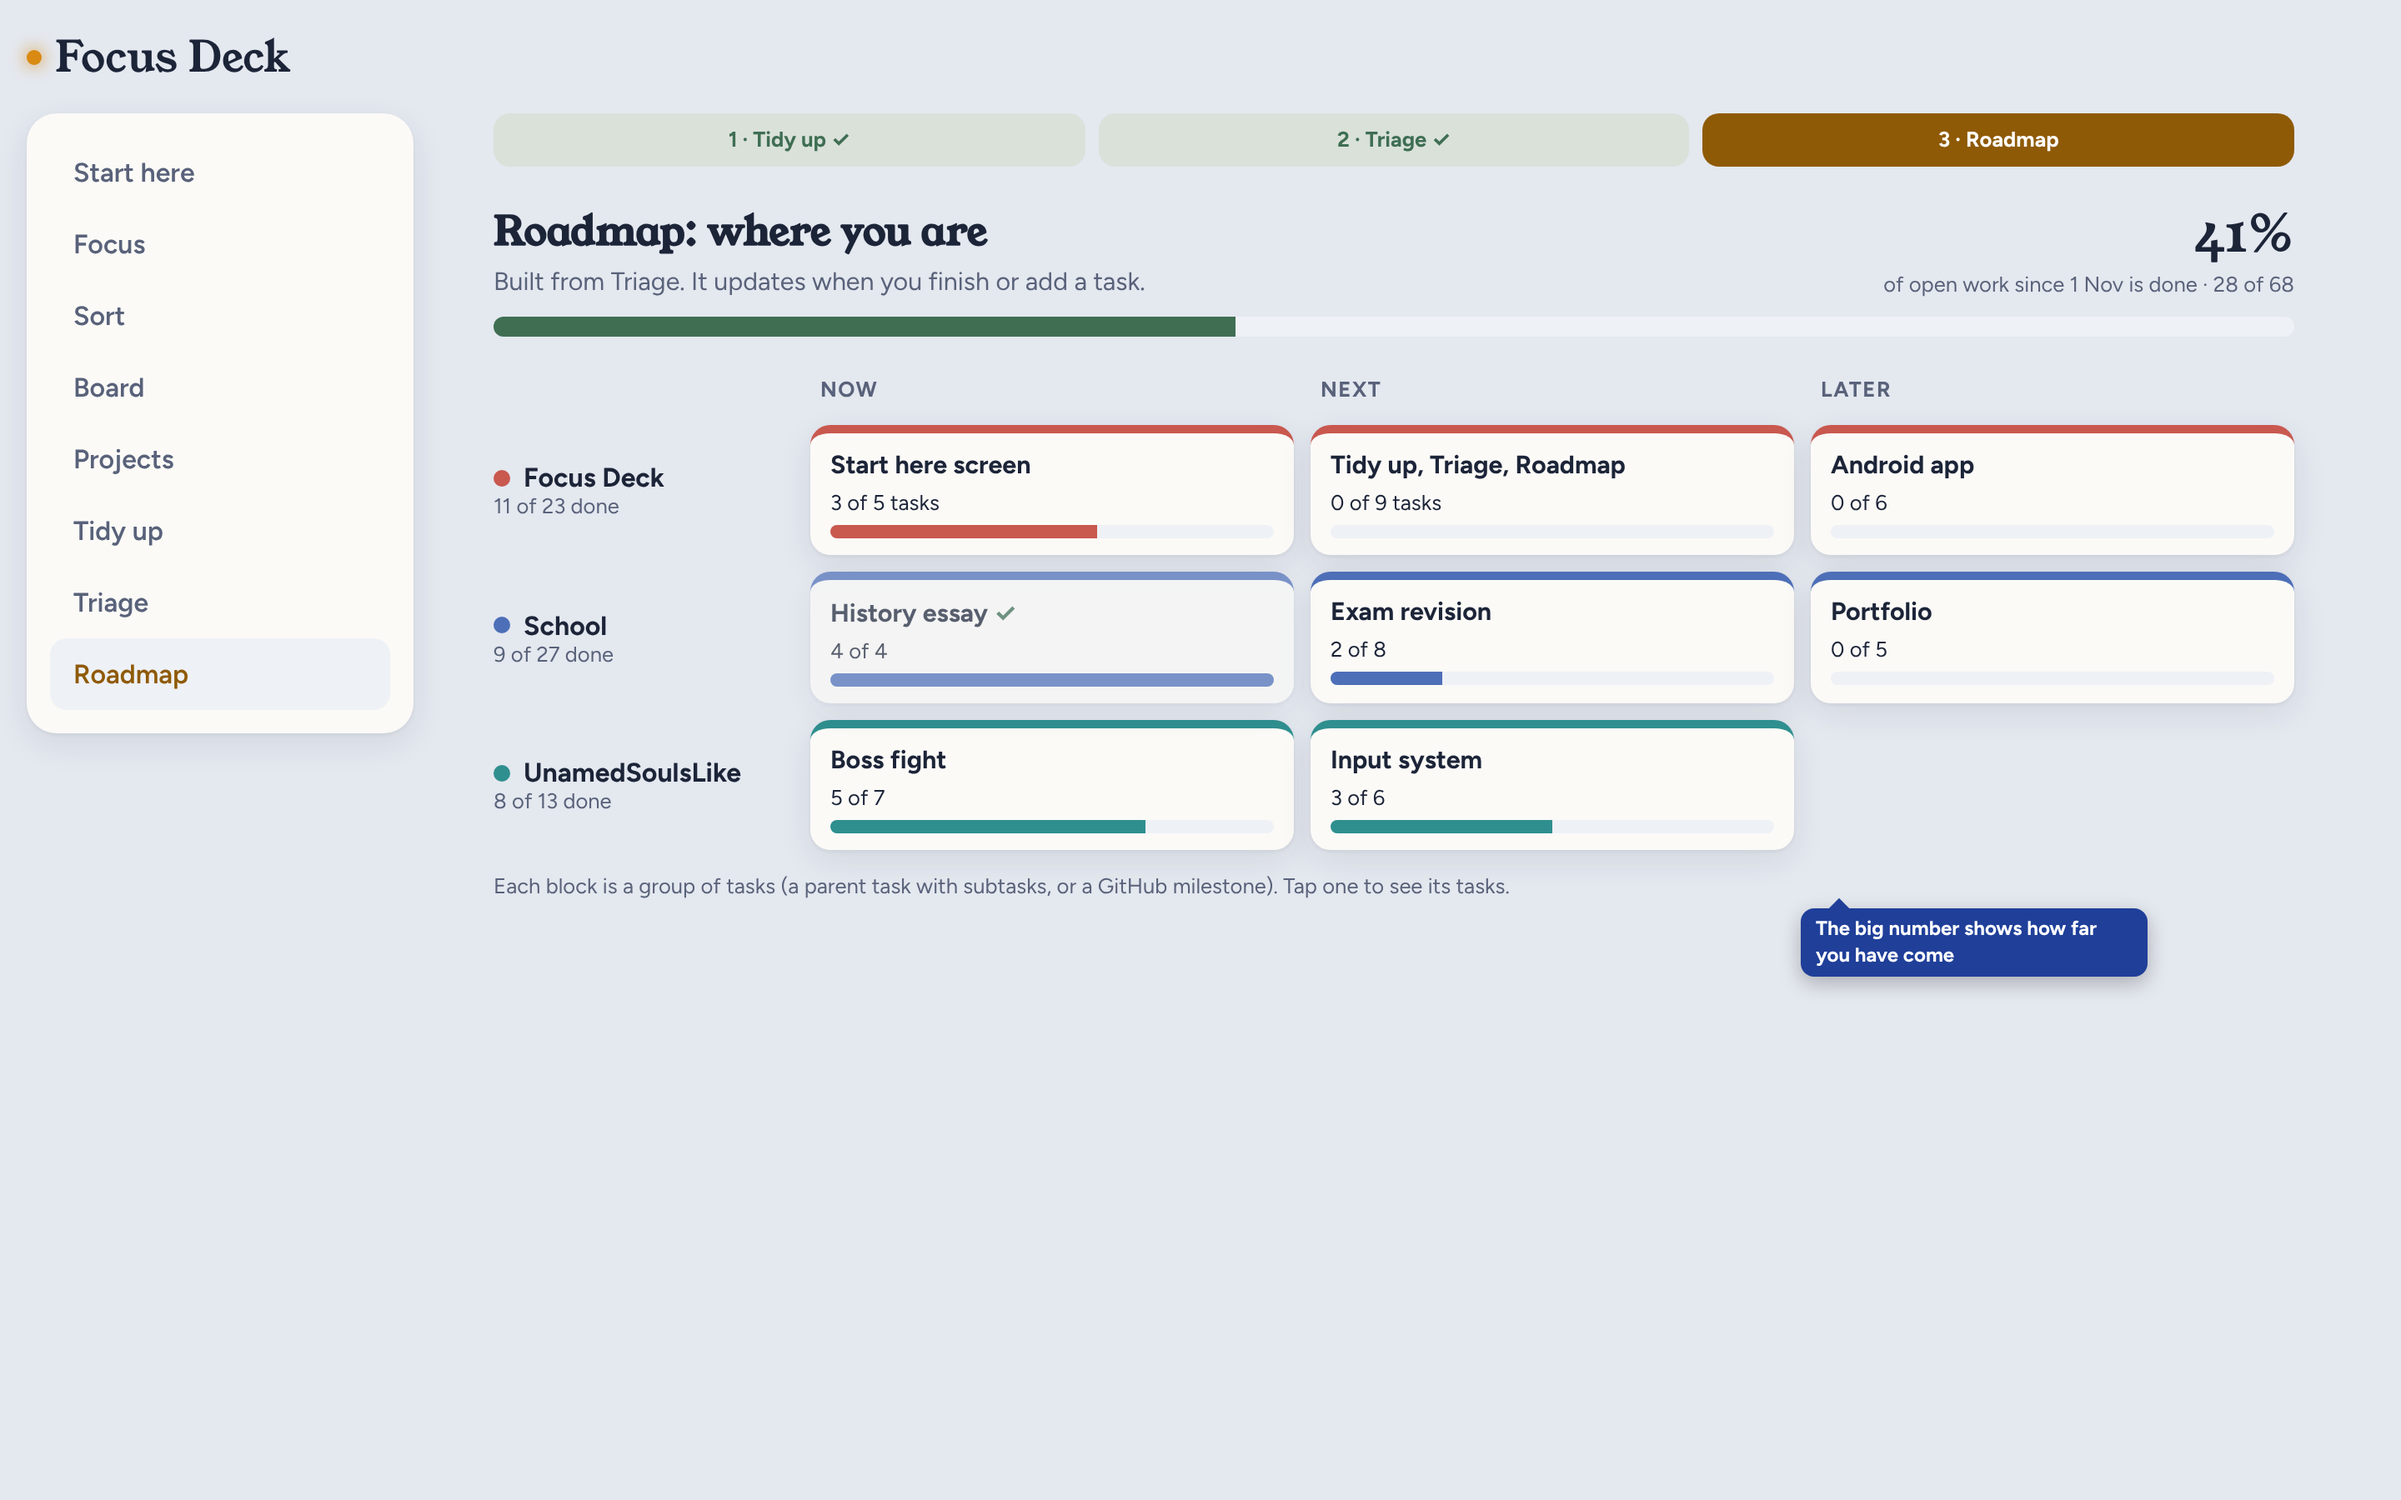
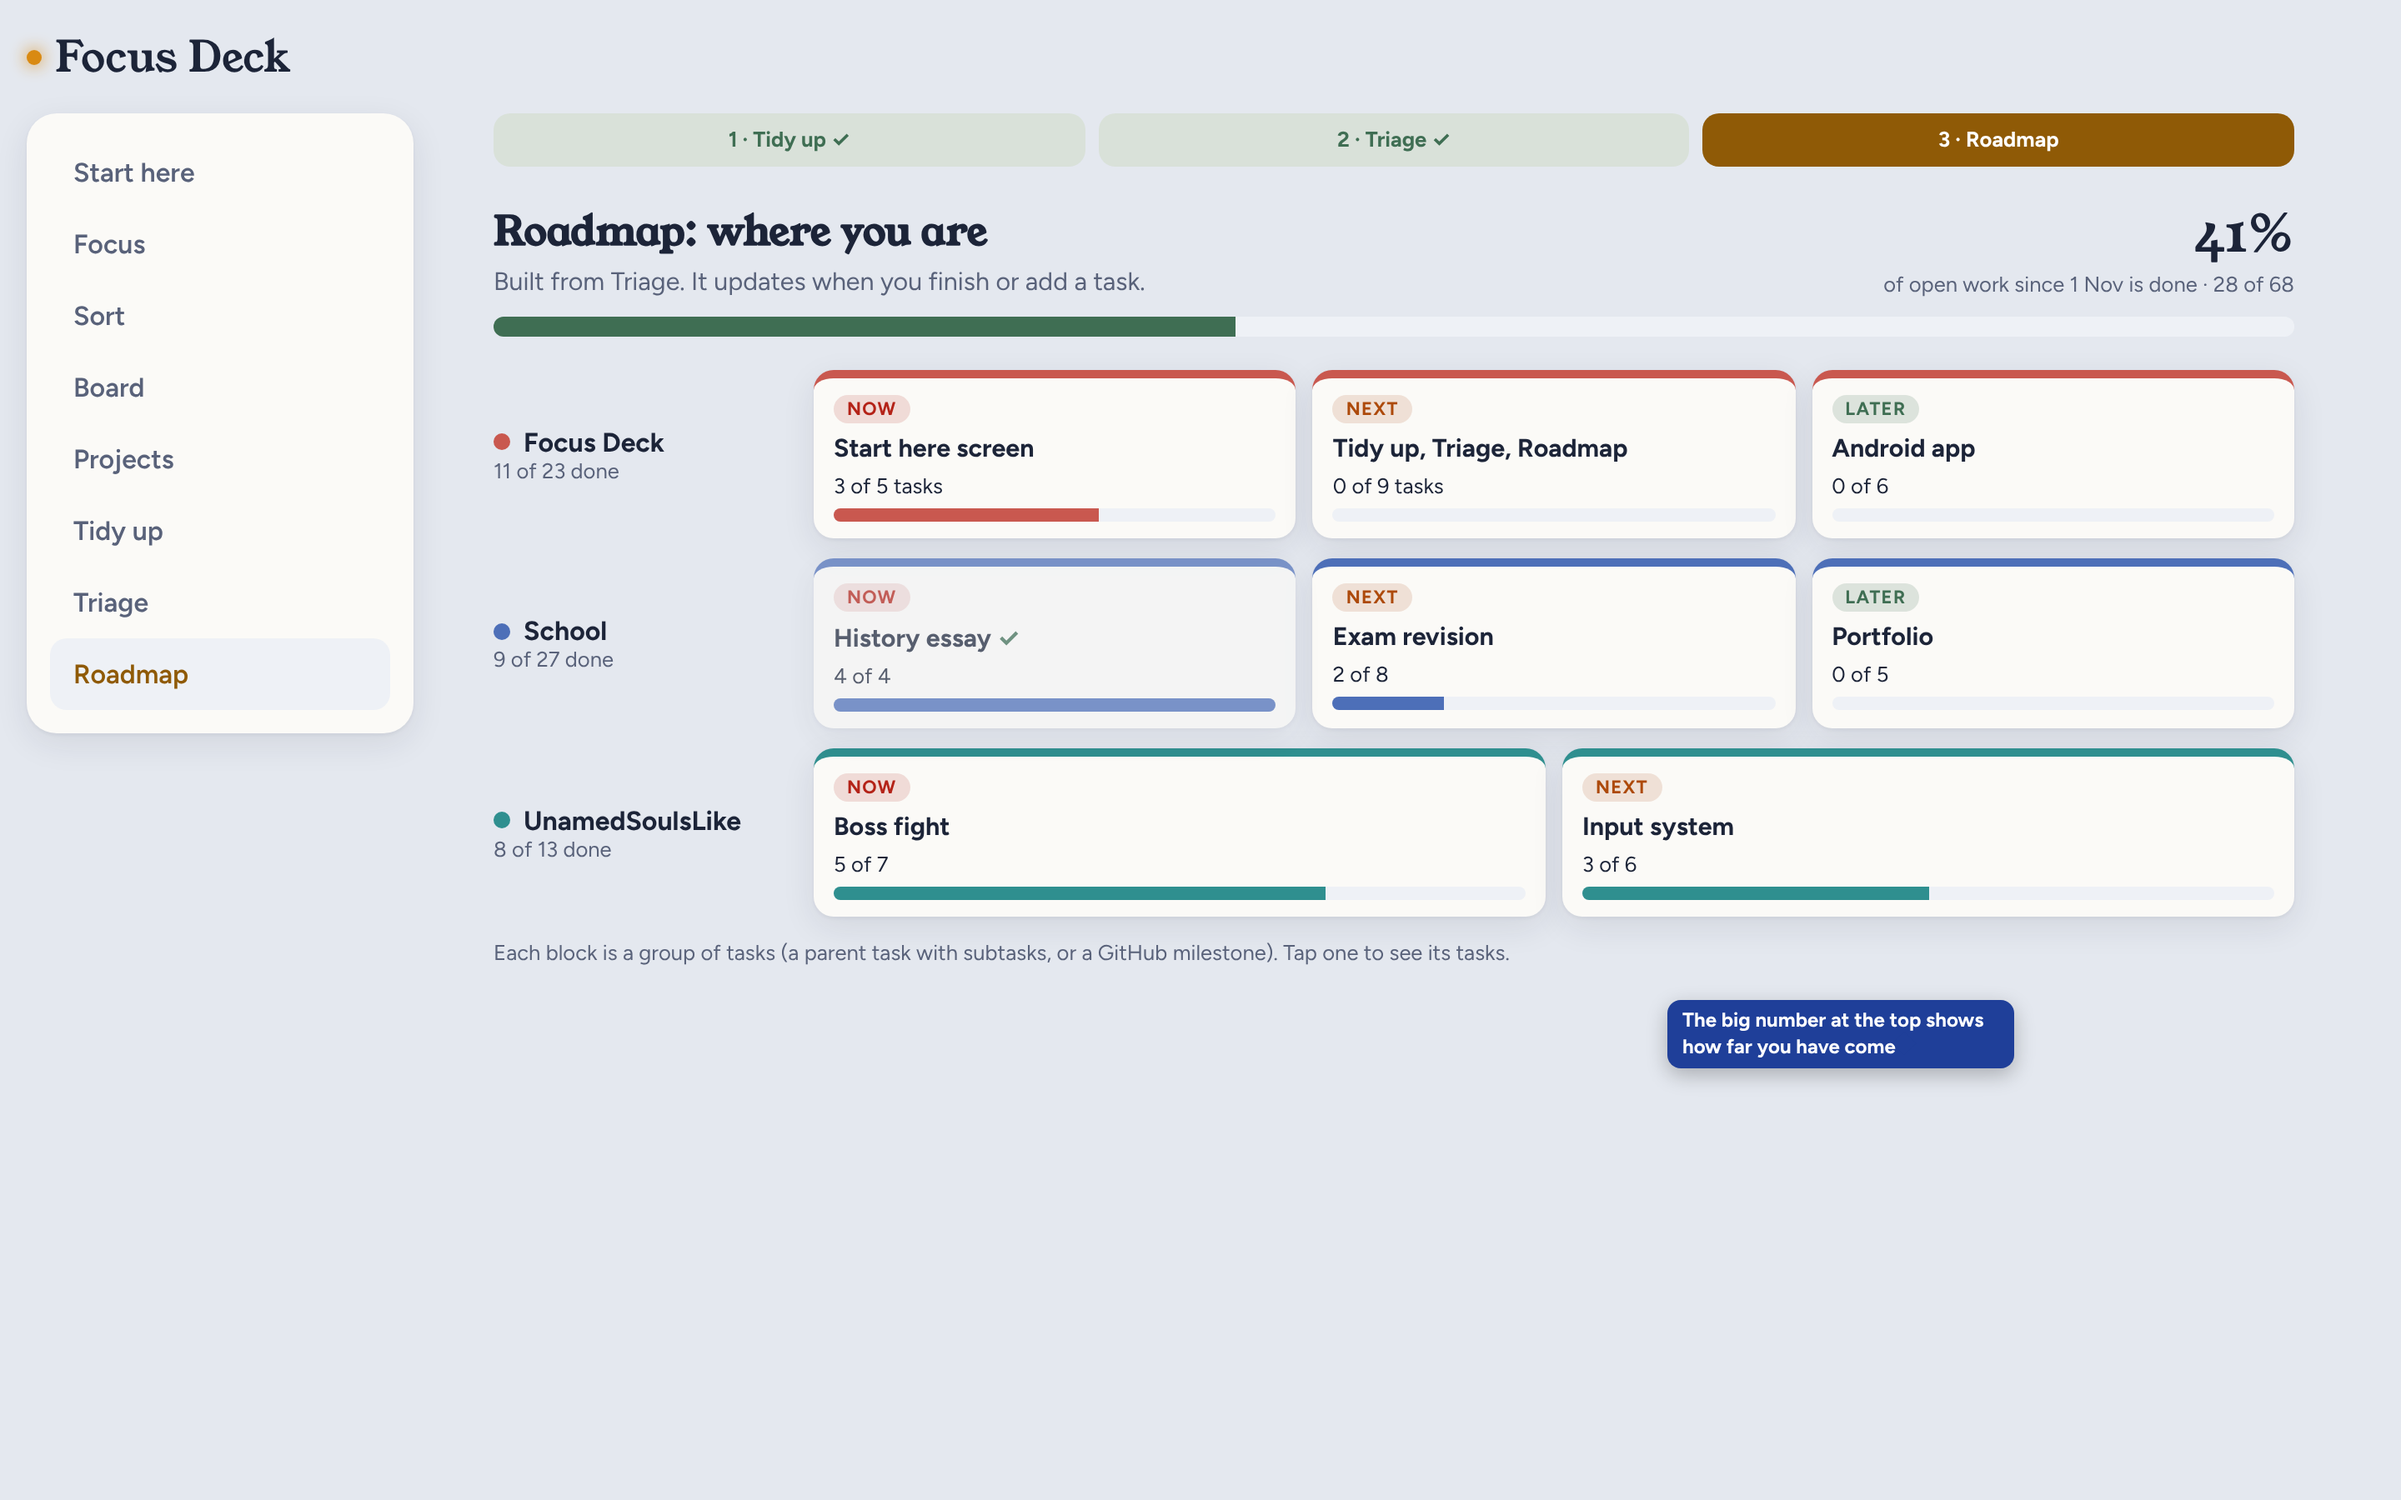
docs: part 2 page, gap-free roadmap rows and the view switch
Committed by Edens Agent

diff --git a/docs/plans/friction-part2.html b/docs/plans/friction-part2.html
@@ -273,7 +273,7 @@ const PAGE = {
   "eyebrow": "Proposal · adds to the combined plan · nothing built yet",
   "approval": "Design approved: friction plan part 2",
   "short": {
-    "lead": "You asked for five more things on top of the combined plan, which stays as the base. First, picking a priority is needed to add any task, and setting a due date takes one tap. Second, 'Needs review' ranks above 'In progress'. Third, phone and desktop share one carousel (a row of cards you slide sideways). Desktop shows five cards at once, and you can move along it with the arrow keys or a mouse. Fourth, a Tidy up step closes what no longer needs to exist, and a Triage step then ranks what is left. Fifth, a Roadmap shows where you are and how far you have come, and it updates as you finish or add tasks. After seeing it, you asked for one more thing: with 26 projects, Roadmap, Tidy up and Triage are too crowded to read. So each project now belongs to an area (a named group of projects, such as Home or Games), and picking an area hides the projects outside it. The pictures below are drawings, not the built app. Numbers marked 'example' are made up to fill the drawing.",
+    "lead": "You asked for five more things on top of the combined plan, which stays as the base. First, picking a priority is needed to add any task, and setting a due date takes one tap. Second, 'Needs review' ranks above 'In progress'. Third, phone and desktop share one carousel (a row of cards you slide sideways). Desktop shows five cards at once, and you can move along it with the arrow keys or a mouse. Fourth, a Tidy up step closes what no longer needs to exist, and a Triage step then ranks what is left. Fifth, a Roadmap shows where you are and how far you have come, and it updates as you finish or add tasks. After seeing it, you asked for one more thing: with 26 projects, Roadmap, Tidy up and Triage are too crowded to read. So each project now belongs to an area (a named group of projects, such as Home or Games), and picking an area hides the projects outside it. A switch at the top of every screen then picks all your work, one area, or one project. The pictures below are drawings, not the built app. Numbers marked 'example' are made up to fill the drawing.",
     "hint": "Tap each row to see its picture. Start with 'The two loops', which shows how the new screens connect to the ones from the combined plan.",
     "key": [
       [
@@ -431,27 +431,53 @@ const PAGE = {
       ],
       [
         "list",
+        "One switch on every screen",
+        "All, Area or Project, everywhere",
+        "you",
+        "You asked for every screen to show everything, one area, or one project. So the same switch sits at the top of Start here, Focus, Sort, Board, Projects, Tidy up, Triage and Roadmap. All shows everything, including Unsorted. Area shows one area. Project shows one project. Your pick stays as you move between screens, until you change it. With Home picked, Focus shows 4 folders instead of 26.",
+        "Check that keeping your pick across screens is what you want.",
+        {
+          "src": "friction-part2-pics/p2-view-every.png",
+          "alt": "Desktop drawing: four screens, Start here, Focus, Board and Sort, each with the All, Area, Project switch at the top; Start here and Focus on Home, Board on the Chores project, Sort on All",
+          "caption": "The same switch on four screens, with example tasks. A drawing, not built."
+        }
+      ],
+      [
+        "list",
+        "Picking an area on a phone",
+        "The list opens from the bottom",
+        "you",
+        "On a phone, tapping Home ▾ opens the list of areas from the bottom of the screen, so every area fits and none is cut off. Tapping one picks it for every screen.",
+        "No decision needed here.",
+        {
+          "src": "friction-part2-pics/p2-view-sheet.png",
+          "alt": "Phone drawing: the switch on Area, and a panel from the bottom titled Show one area listing the eight areas with Home ticked",
+          "caption": "Picking an area on a phone. A drawing, not built."
+        }
+      ],
+      [
+        "list",
         "Roadmap by area",
         "Pick Home and only Home shows",
         "you",
-        "A row of area chips sits at the top. With Home picked, the Roadmap shows only Home projects, and the big number counts only Home work. It shows at most five project rows at once, putting the ones with work in Now first, with a 'Show all' link under them. 'All' brings back the overall view.",
+        "With Area picked in the switch and Home chosen, the Roadmap shows only Home projects, and the big number counts only Home work. Each block carries a Now, Next or Later tag, and the blocks share each row's width, so there are no empty gaps. It shows at most five project rows, starting with the projects that have tasks in Now. A 'Show all' link under them shows the rest.",
         "Check that five rows is a comfortable number.",
         {
           "src": "friction-part2-pics/p2-roadmap-area.png",
-          "alt": "Desktop drawing: area chips with Home picked, Whole area selected, Roadmap Home at 55 percent, three Home projects in Now, Next and Later columns, and Showing 3 of 4",
+          "alt": "Desktop drawing: All, Area, Project switch with Area picked, area chips with Home picked, Roadmap Home at 55 percent, and three Home projects whose tagged blocks fill each row",
           "caption": "Roadmap with the Home area picked, with example numbers. A drawing, not built."
         }
       ],
       [
         "list",
         "Roadmap for one project",
-        "Switch from the area to one project",
+        "One project at a time",
         "you",
-        "The switch at the top right has two settings, 'Whole area' and 'One project'. 'One project' shows that project's blocks, with their tasks listed inside each block. The left and right arrow keys step to the next project in the same area. On a phone, a swipe does the same.",
+        "Picking Project in the switch shows one project's blocks, with their tasks listed inside each block. The left and right arrow keys step to the next project in the same area. On a phone, swiping sideways does the same.",
         "Check that the task lists inside each block are enough detail.",
         {
           "src": "friction-part2-pics/p2-roadmap-one.png",
-          "alt": "Desktop drawing: Apps area picked, One project selected, Roadmap Focus Deck at 48 percent, with Now, Next and Later blocks listing their tasks",
+          "alt": "Desktop drawing: switch on Project with Apps and Focus Deck picked, Roadmap Focus Deck at 48 percent, with Now, Next and Later blocks listing their tasks",
           "caption": "Roadmap for one project, with example numbers. A drawing, not built."
         }
       ],
@@ -471,13 +497,13 @@ const PAGE = {
       [
         "list",
         "Triage by area, phone",
-        "Area chips above the steps",
+        "The switch fits on one line",
         "you",
-        "On a phone the area chips scroll sideways above the three steps. Triage ranks only Home tasks, with the same seven rules.",
-        "Nothing extra from you.",
+        "On a phone, the switch and a Home ▾ button sit above the three steps, and nothing is cut off. Triage ranks only Home tasks, with the same seven rules.",
+        "No decision needed here.",
         {
           "src": "friction-part2-pics/p2-triage-area-phone.png",
-          "alt": "Phone drawing: area chips with Home picked, Triage step, Now, Next and Later for Home tasks, and the Plan tab",
+          "alt": "Phone drawing: All, Area, Project switch and a Home button on one line, Triage step, Now, Next and Later for Home tasks, and the Plan tab",
           "caption": "Triage on a phone with the Home area picked. A drawing, not built."
         }
       ]
@@ -525,6 +551,13 @@ const PAGE = {
       "Eight areas to start, which you can rename, recolour or add to; at least Roadmap, Tidy up and Triage filter by area.",
       null,
       "Each project's current category carries over; Learning becomes School."
+    ],
+    [
+      "new",
+      "View switch",
+      "All, Area or Project at the top of every screen.",
+      null,
+      "Replaces the Projects screen's category filter and the Board's project-group filter with one switch."
     ],
     [
       "keep",
@@ -581,25 +614,6 @@ const PAGE = {
       "I suggest 1 because the weekly loop is a habit, and a habit is easier with its own tab."
     ],
     [
-      "areawide",
-      "Where should the area you pick apply?",
-      [
-        [
-          "1",
-          "Everywhere",
-          1,
-          "Start here, Focus and the Board also show only that area until you pick All."
-        ],
-        [
-          "2",
-          "Only Tidy up, Triage and Roadmap",
-          0,
-          "The daily screens show everything, as they do now."
-        ]
-      ],
-      "I suggest Everywhere, because you said you want to work on Home without seeing app or game work."
-    ],
-    [
       "multi",
       "Can a project be in more than one area?",
       [
@@ -639,13 +653,13 @@ const PAGE = {
     ]
   ],
   "wrapup": {
-    "summary": "Part 2 adds a required priority and one-tap due dates, ranks Needs review first, gives phone and desktop one carousel, and adds Tidy up, Triage and Roadmap as a weekly loop, filtered by areas you set. The combined plan stays as the base.",
-    "changing": "Changed: adding a task, task cards, Focus on desktop, the menu, and project categories, which become Areas. Added: Tidy up, Triage, Roadmap, and the app reading 'Needs review'. Kept: everything else in the combined plan, your data and sync.",
-    "blocking": "Waiting on your answers to the five questions in Choices here and the three on the combined plan page. Nothing is built until you approve.",
+    "summary": "Part 2 adds a required priority and one-tap due dates, ranks Needs review first, and gives phone and desktop one carousel. It also adds Tidy up, Triage and Roadmap as a weekly loop, and one All, Area or Project switch on every screen. The combined plan stays as the base.",
+    "changing": "Changed: adding a task, task cards, Focus on desktop, the menu (a new Plan tab on a phone), and project categories, which become Areas. Added: Tidy up, Triage, Roadmap, the All, Area or Project switch, and the app reading 'Needs review'. Kept: everything else in the combined plan, your data and sync.",
+    "blocking": "Waiting on your answers to the four questions in Choices here and the three on the combined plan page. Nothing is built until you approve.",
     "next": "After you answer, I will open GitHub issues for each part and build the first one. You get a test page for each part before the next starts.",
     "todo": [
       "Look at 'The two loops' first, then the rest.",
-      "Pick one answer under each of the five questions in Choices.",
+      "Pick one answer under each of the four questions in Choices.",
       "Tap <b>Copy my reply<\/b> and send it: \"Design approved: friction plan part 2\", or say what to change."
     ]
   }

diff --git a/docs/5-today/Today.md b/docs/5-today/Today.md
@@ -28,6 +28,10 @@ the existing project category (`state.projectCategories`, `app/js/state.js:44`; 
 Eden's eight defaults (Learning becomes School; no category shows as Unsorted). Drawn as the
 `areas-settings`, `roadmap-area`, `roadmap-one`, `tidy-area` and `triage-area-phone` pictures, added to
 the same part 2 page with two more choices.
+Eden then asked for Roadmap blocks to fill each row (now tagged Now, Next or Later instead of fixed
+columns), a phone area row that never cuts a button off, and one All / Area / Project switch on every
+screen (`view-every`, `view-sheet` pictures). That switch answers the "where does the area apply"
+question, so it was dropped from Choices; four questions remain.
 
 # Today — 2026-10-21
 
